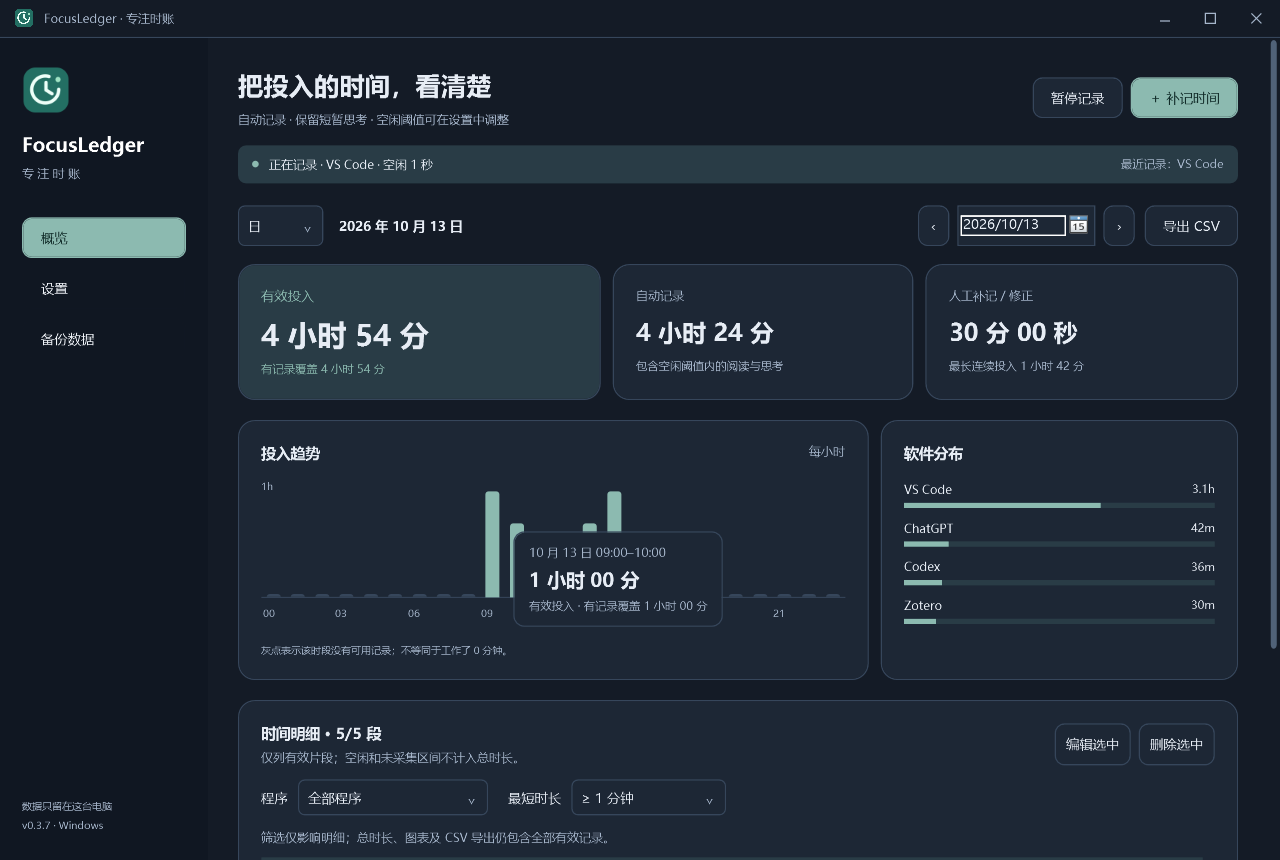
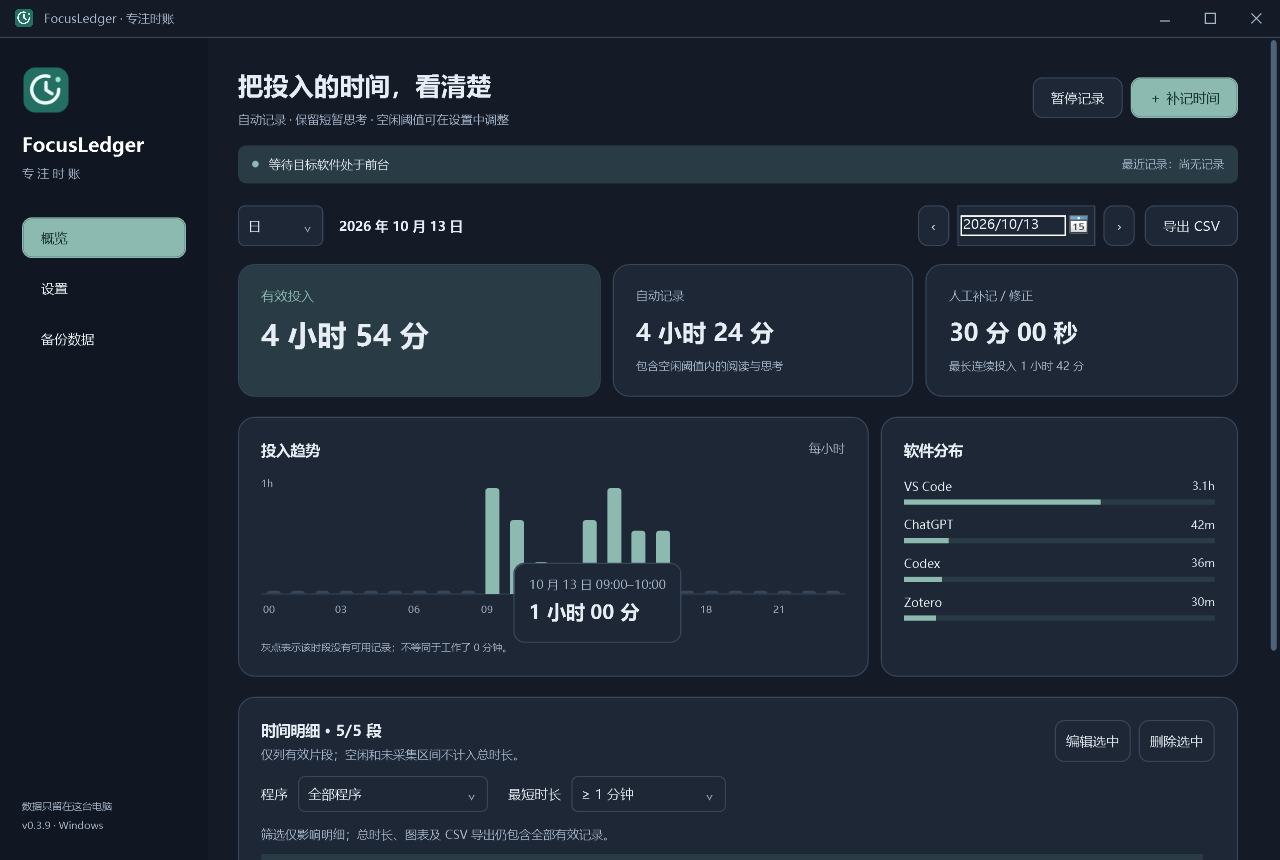
Remove coverage reporting and persist only effective time in v0.3.9

diff --git a/src/FocusLedger.App/MainWindow.xaml b/src/FocusLedger.App/MainWindow.xaml
@@ -18,7 +18,7 @@
    <DockPanel>
     <StackPanel DockPanel.Dock="Bottom">
      <TextBlock Text="数据只留在这台电脑" Style="{StaticResource SidebarFooter}"/>
-     <TextBlock Text="v0.3.8 · Windows" Style="{StaticResource SidebarFooter}" Margin="0,6,0,0"/>
+     <TextBlock Text="v0.3.9 · Windows" Style="{StaticResource SidebarFooter}" Margin="0,6,0,0"/>
     </StackPanel>
     <StackPanel>
      <Image Source="Assets/focusledger.png" Width="48" Height="48" HorizontalAlignment="Left" Margin="0,0,0,18" RenderOptions.BitmapScalingMode="HighQuality"/>
@@ -46,7 +46,7 @@
     </DockPanel>
     <Grid Margin="0,0,0,20">
      <Grid.ColumnDefinitions><ColumnDefinition Width="1.2*"/><ColumnDefinition/><ColumnDefinition/></Grid.ColumnDefinitions>
-     <Border Style="{StaticResource Card}" Background="{DynamicResource Soft}" BorderBrush="{DynamicResource Line}" Margin="0,0,12,0"><StackPanel><TextBlock Text="有效投入" Foreground="{DynamicResource Accent}"/><TextBlock x:Name="TotalText" Text="0 分 00 秒" FontSize="29" FontWeight="SemiBold" Margin="0,10,0,8"/><TextBlock x:Name="CoverageText" Text="等待记录" FontSize="11" Foreground="{DynamicResource Accent}"/></StackPanel></Border>
+     <Border Style="{StaticResource Card}" Background="{DynamicResource Soft}" BorderBrush="{DynamicResource Line}" Margin="0,0,12,0"><StackPanel><TextBlock Text="有效投入" Foreground="{DynamicResource Accent}"/><TextBlock x:Name="TotalText" Text="0 分 00 秒" FontSize="29" FontWeight="SemiBold" Margin="0,10,0,8"/></StackPanel></Border>
      <Border Grid.Column="1" Style="{StaticResource Card}" Margin="0,0,12,0"><StackPanel><TextBlock Text="自动记录" Style="{StaticResource Caption}"/><TextBlock x:Name="AutoText" FontSize="24" FontWeight="SemiBold" Margin="0,13,0,11"/><TextBlock Text="包含空闲阈值内的阅读与思考" FontSize="11" Foreground="{DynamicResource Muted}"/></StackPanel></Border>
      <Border Grid.Column="2" Style="{StaticResource Card}"><StackPanel><TextBlock Text="人工补记 / 修正" Style="{StaticResource Caption}"/><TextBlock x:Name="ManualText" FontSize="24" FontWeight="SemiBold" Margin="0,13,0,11"/><TextBlock x:Name="LongestText" FontSize="11" Foreground="{DynamicResource Muted}"/></StackPanel></Border>
     </Grid>
@@ -55,7 +55,7 @@
      <Border Style="{StaticResource Card}" Margin="0,0,12,0"><StackPanel><DockPanel><TextBlock Text="投入趋势" FontSize="15" FontWeight="SemiBold"/><TextBlock x:Name="ChartHint" Text="每小时" HorizontalAlignment="Right" Style="{StaticResource Caption}"/></DockPanel><Canvas x:Name="TrendCanvas" Height="156" Margin="0,16,0,0" SizeChanged="Chart_SizeChanged"/><TextBlock Text="灰点表示该时段没有可用记录；不等同于工作了 0 分钟。" FontSize="10" Foreground="{DynamicResource Muted}" Margin="0,8,0,0"/></StackPanel></Border>
      <Border Grid.Column="1" Style="{StaticResource Card}"><StackPanel><TextBlock Text="软件分布" FontSize="15" FontWeight="SemiBold" Margin="0,0,0,18"/><StackPanel x:Name="AppBreakdown"/></StackPanel></Border>
     </Grid>
-    <Border x:Name="YearHeatmapCard" Style="{StaticResource Card}" Margin="0,0,0,20" Visibility="Collapsed"><StackPanel><DockPanel><TextBlock Text="一年的投入" FontSize="15" FontWeight="SemiBold"/><TextBlock Text="每格一天 · 悬停查看时长" HorizontalAlignment="Right" Style="{StaticResource Caption}"/></DockPanel><WrapPanel x:Name="YearHeatmap" Margin="0,15,0,8"/><TextBlock Text="灰色：无记录　浅色：有记录但无有效投入　深色：有效投入较多" FontSize="11" Foreground="{DynamicResource Muted}"/></StackPanel></Border>
+    <Border x:Name="YearHeatmapCard" Style="{StaticResource Card}" Margin="0,0,0,20" Visibility="Collapsed"><StackPanel><DockPanel><TextBlock Text="一年的投入" FontSize="15" FontWeight="SemiBold"/><TextBlock Text="每格一天 · 悬停查看时长" HorizontalAlignment="Right" Style="{StaticResource Caption}"/></DockPanel><WrapPanel x:Name="YearHeatmap" Margin="0,15,0,8"/><TextBlock Text="灰色：无有效投入记录　颜色越深，代表有效投入越多" FontSize="11" Foreground="{DynamicResource Muted}"/></StackPanel></Border>
     <Border Style="{StaticResource Card}">
      <StackPanel>
       <DockPanel Margin="0,0,0,14"><StackPanel DockPanel.Dock="Right" Orientation="Horizontal"><Button Content="编辑选中" Click="Edit_Click" Padding="10,6"/><Button Content="删除选中" Click="Delete_Click" Padding="10,6" Margin="0"/></StackPanel><StackPanel><TextBlock x:Name="TimelineTitle" Text="时间明细" FontSize="15" FontWeight="SemiBold"/><TextBlock Text="仅列有效片段；空闲和未采集区间不计入总时长。" Style="{StaticResource Caption}" Margin="0,6,0,0"/></StackPanel></DockPanel>
@@ -108,7 +108,6 @@
    <Border x:Name="ChartDetail" Visibility="Collapsed" Background="{DynamicResource Surface}" BorderBrush="{DynamicResource Line}" BorderThickness="1" CornerRadius="10" Padding="14,12" MaxWidth="290">
     <StackPanel><TextBlock x:Name="ChartDetailTitle" FontFamily="{DynamicResource AppFont}" FontSize="12" Foreground="{DynamicResource Muted}"/>
      <TextBlock x:Name="ChartDetailValue" FontFamily="{DynamicResource AppFont}" FontSize="19" FontWeight="SemiBold" Foreground="{DynamicResource Ink}" Margin="0,7,0,5"/>
-     <TextBlock x:Name="ChartDetailHint" FontFamily="{DynamicResource AppFont}" FontSize="11" Foreground="{DynamicResource Muted}" TextWrapping="Wrap"/>
     </StackPanel>
    </Border>
   </Canvas>

diff --git a/src/FocusLedger.App/MainWindow.xaml.cs b/src/FocusLedger.App/MainWindow.xaml.cs
@@ -113,7 +113,6 @@ public partial class MainWindow : Window
             TotalText.Text = DurationText.Format(total);
             AutoText.Text = DurationText.Format(visible.Where(s => s.Kind == SegmentKind.Active).Sum(s => s.Seconds));
             ManualText.Text = DurationText.Format(visible.Where(s => s.Kind == SegmentKind.Manual).Sum(s => s.Seconds));
-            CoverageText.Text = clipped.Count == 0 ? "该周期尚无采集或补记记录" : $"有记录覆盖 {DurationText.Format(clipped.Where(s => s.Kind != SegmentKind.Unavailable).Sum(s => s.Seconds))}";
             LongestText.Text = "最长连续投入 " + DurationText.Format(Reports.LongestEffective(visible));
             buckets = Reports.Buckets(clipped, range, CurrentPeriod, zone);
             ChartHint.Text = CurrentPeriod switch { Period.Day => "每小时", Period.Year => "每月", _ => "每天" };
@@ -187,7 +186,7 @@ public partial class MainWindow : Window
             var b = buckets[i];
             var barHeight = b.Seconds / max * (chartHeight - 12);
             var bar = new Border { Width = Math.Max(3, unit * .58), Height = Math.Max(3, barHeight), CornerRadius = new CornerRadius(3, 3, 0, 0),
-                Background = ThemeManager.Brush(b.Seconds > 0 ? "Accent" : b.ObservedSeconds > 0 ? "Soft" : "Line") };
+                Background = ThemeManager.Brush(b.Seconds > 0 ? "Accent" : "Line") };
             Canvas.SetLeft(bar, i * unit + unit * .21); Canvas.SetTop(bar, chartHeight - bar.Height); TrendCanvas.Children.Add(bar);
             trendBars.Add((i, new Rect(Canvas.GetLeft(bar), Canvas.GetTop(bar), bar.Width, bar.Height)));
             if (buckets.Count <= 12 || i % (buckets.Count > 25 ? 5 : 3) == 0)
@@ -254,12 +253,11 @@ public partial class MainWindow : Window
             var date = first.AddDays(day);
             var parts = Reports.Clip(all, Reports.ToUtc(date, zone), Reports.ToUtc(date.AddDays(1), zone));
             var seconds = parts.Where(s => s.IsEffective).Sum(s => s.Seconds);
-            var observedSeconds = parts.Where(s => s.Kind != SegmentKind.Unavailable).Sum(s => s.Seconds);
             var cell = new Border { Width = cellWidth, Height = cellHeight, CornerRadius = new CornerRadius(2),
-                Background = ThemeManager.Heat(seconds, observedSeconds > 0) };
+                Background = ThemeManager.Heat(seconds) };
             cell.MouseMove += (_, e) =>
             {
-                if (seconds > 0) ShowChartDetail(date.ToString("yyyy 年 M 月 d 日"), seconds, observedSeconds, e.GetPosition(ChartOverlay));
+                if (seconds > 0) ShowChartDetail(date.ToString("yyyy 年 M 月 d 日"), seconds, e.GetPosition(ChartOverlay));
                 else HideChartDetail();
             };
             cell.MouseLeave += (_, _) => HideChartDetail();

diff --git a/tests/FocusLedger.Tests/Program.cs b/tests/FocusLedger.Tests/Program.cs
@@ -19,7 +19,7 @@ tests.Add(("Ten minutes idle retains exactly first three minutes", () =>
 {
     var engine = new TrackingEngine(); List<Segment> all = [];
     for (int i = 0; i <= 600; i++) all.AddRange(engine.Push(Sample(i, idle: i, kind: i < 180 ? SegmentKind.Active : SegmentKind.Idle)));
-    Equal(180, Effective(all)); Equal(420, all.Where(s => s.Kind == SegmentKind.Idle).Sum(s => s.Seconds));
+    Equal(180, Effective(all)); True(all.All(s => s.IsEffective), "idle time is not emitted");
 }));
 tests.Add(("Reading pauses under threshold are retained", () =>
 {
@@ -30,7 +30,7 @@ tests.Add(("Reading pauses under threshold are retained", () =>
 tests.Add(("Threshold within sample splits precisely", () =>
 {
     var engine = new TrackingEngine(); engine.Push(Sample(0, idle: 179.6)); var result = engine.Push(Sample(1, idle: 180.6, kind: SegmentKind.Idle));
-    Equal(.4, Effective(result)); Equal(.6, result.Single(s => s.Kind == SegmentKind.Idle).Seconds);
+    Equal(.4, Effective(result)); Equal(1, result.Count); True(result[0].IsEffective);
 }));
 tests.Add(("Switching apps cannot double count", () =>
 {
@@ -59,6 +59,22 @@ tests.Add(("Resuming from idle never fills the preceding idle second", () =>
     var engine = new TrackingEngine(); engine.Push(Sample(0, idle: 200, kind: SegmentKind.Idle));
     Equal(0, Effective(engine.Push(Sample(1)))); Equal(1, Effective(engine.Push(Sample(2))));
 }));
+tests.Add(("Only effective intervals are persisted and inactive gaps are not bridged", () =>
+{
+    foreach (var kind in new[] { SegmentKind.Idle, SegmentKind.Excluded, SegmentKind.Paused, SegmentKind.Locked, SegmentKind.Unavailable })
+    {
+        using var db = Db("effective-only-" + kind);
+        var engine = new TrackingEngine();
+        foreach (var sample in new[] { Sample(0), Sample(1), Sample(2, kind: kind), Sample(3, kind: kind), Sample(4), Sample(5) })
+            foreach (var segment in engine.Push(sample)) db.Append(segment);
+        var records = db.ReadAll();
+        True(records.All(s => s.IsEffective)); Equal(2, records.Count); Equal(3, Effective(records));
+        Equal(2, (records[1].Start - records[0].End).TotalSeconds);
+        db.Append(new(0, origin.AddSeconds(5), origin.AddSeconds(100), "", kind));
+        Equal(2, db.ReadAll().Count); Equal(3, Effective(db.ReadAll()));
+    }
+}));
+
 tests.Add(("Continuous samples merge in SQLite", () =>
 {
     using var db = Db("merge");

diff --git a/src/FocusLedger.App/MainWindow.ChartDetail.cs b/src/FocusLedger.App/MainWindow.ChartDetail.cs
@@ -26,14 +26,13 @@ public partial class MainWindow
             Period.Year => date.ToString("yyyy 年 M 月"),
             _ => date.ToString("yyyy 年 M 月 d 日")
         };
-        ShowChartDetail(title, bucket.Seconds, bucket.ObservedSeconds, TrendCanvas.TranslatePoint(point, ChartOverlay));
+        ShowChartDetail(title, bucket.Seconds, TrendCanvas.TranslatePoint(point, ChartOverlay));
     }
 
-    private void ShowChartDetail(string title, double seconds, double observedSeconds, Point pointer)
+    private void ShowChartDetail(string title, double seconds, Point pointer)
     {
         ChartDetailTitle.Text = title;
-        ChartDetailValue.Text = observedSeconds > 0 ? DurationText.Format(seconds) : "无记录";
-        ChartDetailHint.Text = observedSeconds > 0 ? $"有效投入 · 有记录覆盖 {DurationText.Format(observedSeconds)}" : "该时段没有可用记录";
+        ChartDetailValue.Text = DurationText.Format(seconds);
         ChartDetail.Visibility = Visibility.Visible;
         ChartDetail.Measure(new Size(double.PositiveInfinity, double.PositiveInfinity));
         var size = ChartDetail.DesiredSize;

diff --git a/src/FocusLedger.App/MainWindow.ChartChecks.cs b/src/FocusLedger.App/MainWindow.ChartChecks.cs
@@ -40,10 +40,10 @@ public partial class MainWindow
                 capture("chart-detail-" + period + ".png");
             }
             SetPeriodForCheck(DateTime.Today.AddDays(-1), Period.Day); Flush();
-            var empty = buckets.FindIndex(b => b.ObservedSeconds == 0);
+            var empty = buckets.FindIndex(b => b.Seconds == 0);
             UpdateTrendDetail(new Point((empty + .5) * TrendCanvas.ActualWidth / buckets.Count, 117));
             Require(ChartDetail.Visibility == Visibility.Collapsed, "empty bar never triggers");
-            ShowChartDetail("边界检查", 60, 60, new Point(ChartOverlay.ActualWidth - 2, ChartOverlay.ActualHeight - 2)); Flush();
+            ShowChartDetail("边界检查", 60, new Point(ChartOverlay.ActualWidth - 2, ChartOverlay.ActualHeight - 2)); Flush();
             Require(Canvas.GetLeft(ChartDetail) + ChartDetail.ActualWidth <= ChartOverlay.ActualWidth - 11 &&
                 Canvas.GetTop(ChartDetail) + ChartDetail.ActualHeight <= ChartOverlay.ActualHeight - 11, "tooltip fits window edges");
             foreach (var theme in new[] { "Forest", "Ocean", "Dark" })

diff --git a/src/FocusLedger.Core/TrackingEngine.cs b/src/FocusLedger.Core/TrackingEngine.cs
@@ -18,15 +18,14 @@ public sealed class TrackingEngine
         var wallMs = (current.Utc - last.Utc).TotalMilliseconds;
         // Never bill sleep, a stalled collector, clock jumps or backwards time.
         if (elapsed <= 0 || elapsed > MaximumGapMs || wallMs <= 0 || Math.Abs(wallMs - elapsed) > 1500) return [];
-        if (last.Kind != SegmentKind.Active)
-            return [new(0, last.Utc, current.Utc, last.App, last.Kind)];
+        // Non-work states only reset the sampling baseline; never persist runtime coverage.
+        if (last.Kind != SegmentKind.Active) return [];
 
         var remaining = Math.Max(0, last.TimeoutSeconds - last.IdleSeconds);
         // Preserve the exact observed endpoint; floating-point round trips can create tiny idle tails.
         var end = remaining >= wallMs / 1000 ? current.Utc : last.Utc.AddSeconds(remaining);
         List<Segment> result = [];
         if (end > last.Utc) result.Add(new(0, last.Utc, end, last.App, SegmentKind.Active));
-        if (end < current.Utc) result.Add(new(0, end, current.Utc, last.App, SegmentKind.Idle));
         return result;
     }
 }

diff --git a/src/FocusLedger.Core/Reports.cs b/src/FocusLedger.Core/Reports.cs
@@ -2,7 +2,7 @@ namespace FocusLedger.Core;
 
 public enum Period { Day, Week, Month, Year }
 public sealed record PeriodRange(DateTimeOffset Start, DateTimeOffset End, string Label);
-public sealed record SummaryBucket(string Label, DateTimeOffset Start, double Seconds, double ObservedSeconds);
+public sealed record SummaryBucket(string Label, DateTimeOffset Start, double Seconds);
 
 public static class Reports
 {
@@ -44,7 +44,7 @@ public static class Reports
             var endUtc = ToUtc(next, zone);
             var parts = Clip(all, startUtc, endUtc);
             result.Add(new(period switch { Period.Day => cursor.ToString("HH"), Period.Year => $"{cursor.Month}月", _ => cursor.ToString("MM/dd") },
-                startUtc, parts.Where(s => s.IsEffective).Sum(s => s.Seconds), parts.Where(s => s.Kind != SegmentKind.Unavailable).Sum(s => s.Seconds)));
+                startUtc, parts.Where(s => s.IsEffective).Sum(s => s.Seconds)));
             cursor = next;
         }
         return result;

diff --git a/src/FocusLedger.App/ThemeManager.cs b/src/FocusLedger.App/ThemeManager.cs
@@ -7,9 +7,9 @@ internal static class ThemeManager
 {
     internal static event Action? Changed;
     internal static Brush Brush(string key) => (Brush)Application.Current.Resources[key];
-    internal static Brush Heat(double seconds, bool observed)
+    internal static Brush Heat(double seconds)
     {
-        if (!observed) return Brush("Line");
+        if (seconds <= 0) return Brush("Line");
         var weight = seconds <= 0 ? .08 : seconds < 3600 ? .25 : seconds < 10800 ? .45 : seconds < 21600 ? .7 : 1;
         var front = ((SolidColorBrush)Brush("Accent")).Color;
         var back = ((SolidColorBrush)Brush("Surface")).Color;

diff --git a/src/FocusLedger.Storage/LedgerStore.cs b/src/FocusLedger.Storage/LedgerStore.cs
@@ -60,6 +60,7 @@ public sealed class LedgerStore : IDisposable
 
     public void Append(Segment segment)
     {
+        if (!segment.IsEffective) return;
         segment = MillisecondPrecision(segment);
         if (segment.End <= segment.Start) return;
         using var tx = connection.BeginTransaction();

diff --git a/VERIFICATION.md b/VERIFICATION.md
@@ -1,3 +1,11 @@
+# v0.3.9 验证
+
+- 34/34 核心和数据库回归测试通过，离线发布及隔离界面自检通过。
+- 更新空闲阈值测试：保留阈值内有效时间，超时部分不再生成空闲片段。
+- 新增空闲、暂停、锁屏、非统计软件、不可用状态的完整采样至数据库检查：只保存有效片段，恢复后不跨越非有效间隔合并；存储入口也拒绝非有效片段。
+- 源码检查不再有覆盖时长汇总字段，概览与图表卡片渲染已去除该数据。
+- 既有人工修正、跨日汇总、备份、迁移和计时精度回归继续通过；未删除旧数据或安装依赖。
+
 # v0.3.8 验证
 
 - 离线发布和隔离界面自检通过。

diff --git a/CHANGELOG.md b/CHANGELOG.md
@@ -1,5 +1,12 @@
 # 更新记录
 
+## 0.3.9
+
+- 删除概览及悬停卡片中的“有记录覆盖”，报表不再计算覆盖时长。
+- 只新增保存有效自动记录和人工补记；空闲、暂停、锁屏、非统计软件及不可用状态不再生成存储片段。
+- 状态仍用于停止计时，恢复时不补算中间的非有效时间；旧版已有数据不做删除。
+- 热力图与趋势图仅按有效投入着色，同步更新图例。
+
 ## 0.3.8
 
 - 趋势图悬停范围缩小至有效柱体及少量容差，不再覆盖整列；无有效投入的时段不显示卡片。
